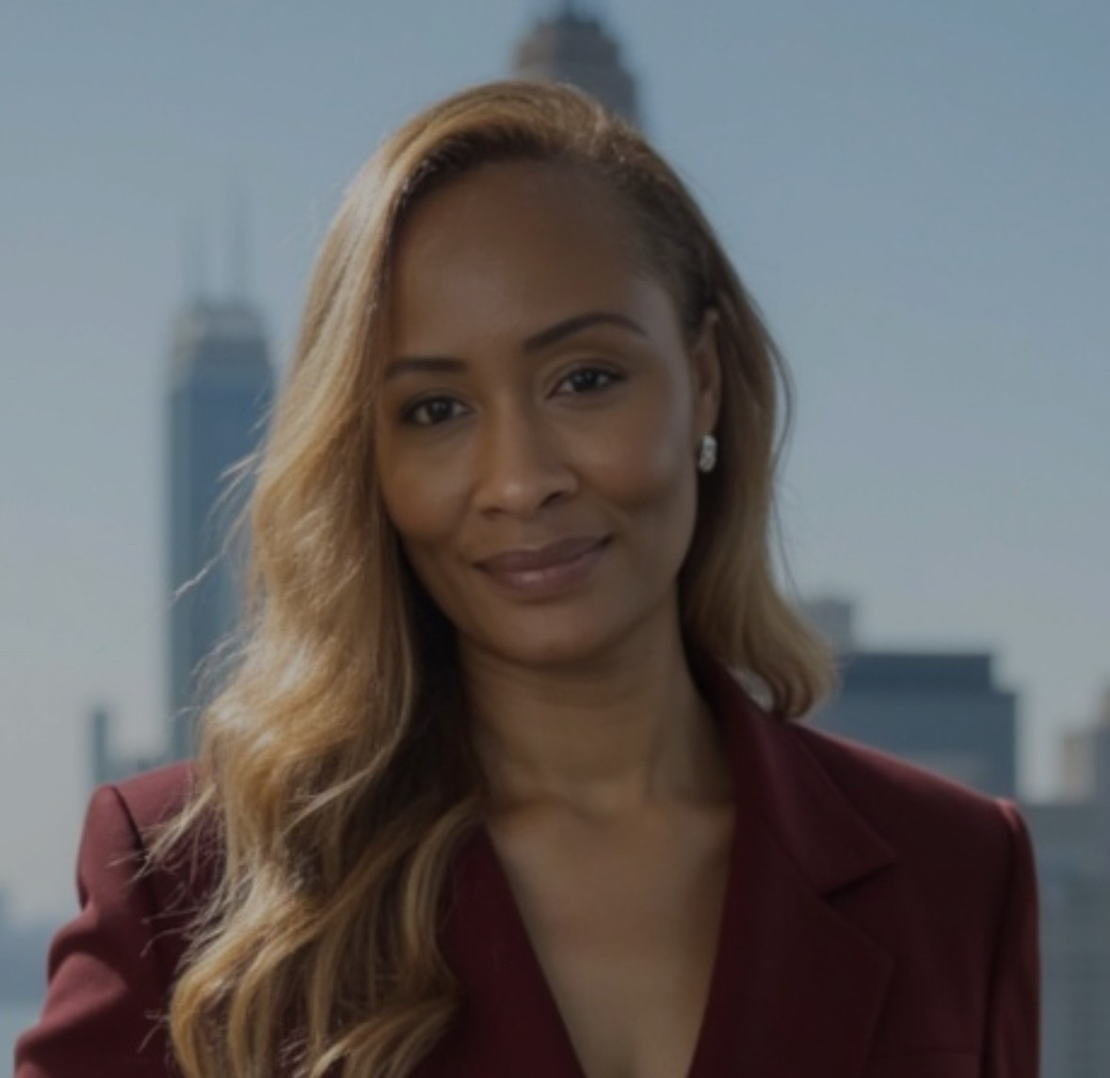
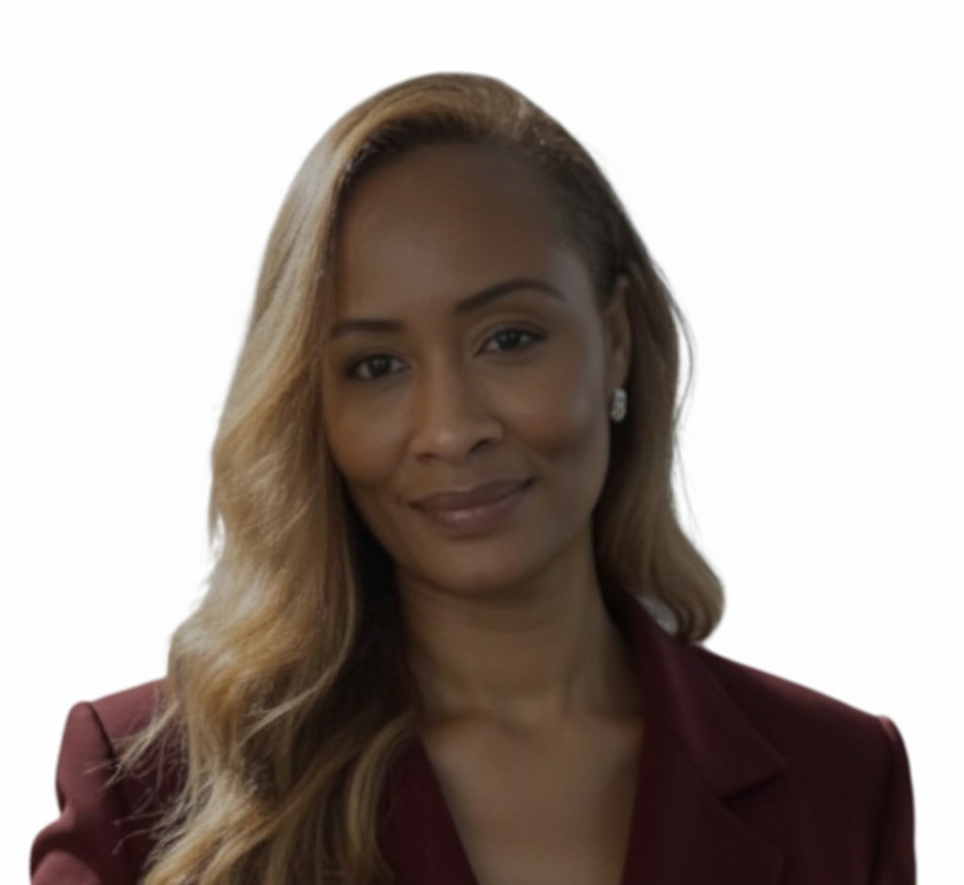
commit

diff --git a/agenda.js b/agenda.js
@@ -74,14 +74,14 @@ document.addEventListener('DOMContentLoaded', function() {
             title: "Keynote Speaker",
             organization: "Former Acting Deputy Secretary, Department of Homeland Security",
             bio: "<p>MaryAnn spent 15 years with the Federal Emergency Management Agency as the Regional Administrator for FEMA Region 3. In January 2025 she served as the Acting Deputy Secretary of the Department of Homeland Security. MaryAnn served in a variety of roles across FEMA including as the Senior Official Performing the Duties of Deputy Administrator (2025), Acting Deputy Administrator (2021), Acting Regional Administrator for Region 2 (2013), and Associate Administrator for Mission Support (2017).</p><p>In addition to her permanent position, she is a qualified Federal Coordinating Officer (Type 1) and led one of FEMA's five National Incident Management Assistance Teams. She deployed to several Presidentially declared disasters to support survivors and communities and has served in senior coordinating roles for the Department of Homeland Security and National Security Council. MaryAnn has also worked in emergency management in New York City and Philadelphia.</p><p>She has a BA from American University, a MPA from New York University, and has completed the three primary professional military education courses for General and Flag officers. MaryAnn received the DHS Secretary's Outstanding Service Medal in 2021, the Presidential Rank Award, Distinguished Rank in 2022, and the DHS Secretary's Meritorious Service Silver Medal in 2023.</p><p>MaryAnn lives in South Philly with her husband, son, and dog; is an avid runner; and aspires to one day have a cooking show like Ina Garten.</p>",
-            image: "https://github.com/MAwadalla04/DLS_website/blob/main/SRC/Headshots/MAT.jpg?raw=true"
+            image: "https://github.com/MAwadalla04/DLS_website/blob/main/SRC/Headshots/MaryAnn_Tierney_1.jpg?raw=true"
         },
         counsel: {
             name: "Sonja Orgias, Esq.", 
             title: "Chief Counsel",
             organization: "New York City Emergency Management",
             bio: "<p>Sonja Orgias has served as the Chief Counsel of New York City Emergency Management since August 2022. Ms. Orgias joined the agency in 2015 as Director of Legal Affairs and was appointed to Deputy Chief Counsel in 2021 to oversee the expansion of the agency's legal operations.</p><p>In her role, Ms. Orgias oversees the Office of the Chief Counsel comprised of three units: Legal Affairs, DAFN Legal, and Records Management. She also provides legal guidance to the Commissioner, First Deputy Commissioner, and other executives.</p><p>As a native Brooklynite who is also a City employee, Ms. Orgias is attuned to the unique way that this city runs; the way that its agencies run; and, the expectations of the public.</p><p>She has overseen emergency legal operations in response to numerous incidents in and outside of NYC, including drafting executive orders for extreme weather events, multiple city-to-city agreements with NYC and other municipalities, drafting emergency contracts valued at more than $600 million for the procurement of goods and services during the COVID-19 response, and licenses needed for City operations during other emergency crises.</p><p>In addition, Ms. Orgias was instrumental in starting, and serving in a leadership role of, the inaugural Equity and Diversity Council at New York Emergency Management. Her work has facilitated discussions and raised issues related to diversity, equity, and inclusion, which are necessary components in addressing community needs during emergencies.</p><p>Prior to joining New York City Emergency Management, Ms. Orgias served as an Administrative Law Judge with the New York City Environmental Control Board – OATH and Assistant Counsel with FDNY. She has a background in bankruptcy, immigration, administrative law, and alternative dispute resolution.</p><p>Ms. Orgias received her Juris Doctor Degree from Hofstra University School of Law and her Bachelor's Degree from Boston University and is a proud Stuyvesant High School alumna. She is a member of the New York State Bar Association Committee on Mass Disaster Response. Ms. Orgias is admitted to practice in the State of New York, the Eastern and Southern Districts of New York, and the Supreme Court of the United States.</p>",
-            image: "https://github.com/MAwadalla04/DLS_website/blob/main/SRC/Headshots/SO%20HS.png?raw=true",
+            image: "https://github.com/MAwadalla04/DLS_website/blob/main/SRC/Headshots/Sonja_Orgias.jpg?raw=true",
             usePhoto: true
         },
         closing: {
@@ -103,21 +103,21 @@ document.addEventListener('DOMContentLoaded', function() {
                     title: 'Deputy Chief Privacy Officer',
                     organization: 'NYC Office of Information Privacy',
                     bio: 'Aaron Friedman, Deputy Chief Privacy Officer, has been part of the NYC Office of Information Privacy since 2019. He counsels agencies and the Chief Privacy Officer on privacy issues and teaches privacy law at Fordham Law School. Before joining the Office of Information Privacy, Aaron was a senior counsel with the NYC Department of Social Services. Aaron is a graduate of the Benjamin N. Cardozo School of Law and CUNY Queens College.',
-                    image: 'https://github.com/MAwadalla04/DLS_website/blob/main/SRC/Headshots/Aaron%20Friedman%20headshot.jpg?raw=true'
+                    image: 'https://github.com/MAwadalla04/DLS_website/blob/main/SRC/Headshots/Aaron_Friedman_1.jpg?raw=true'
                 },
                 {
                     name: 'Ginger Armbruster',
                     title: 'Chief Privacy Officer',
                     organization: 'City of Seattle',
                     bio: 'As the City of Seattle\'s Chief Privacy Officer, Ginger Armbruster leads a team of privacy specialists in the execution of the City\'s Privacy Program, following a principles-based approach to the City\'s management of the public\'s personal and sensitive information. Prior to this role, she worked for Microsoft on an international team of privacy specialists to resolve issues associated with multi-million-dollar marketing initiatives. Before moving into privacy, she spent the first 20 years of her career working in sales and marketing for Fortune 500 companies such as IBM, Hewlett-Packard and Johnson & Johnson, as well as several medical technology startup companies.',
-                    image: 'SRC/Headshots/Ginger Armbruster headshot.jpg'
+                    image: 'https://github.com/MAwadalla04/DLS_website/blob/main/SRC/Headshots/Ginger_Armbruster_1.jpg?raw=true'
                 },
                 {
                     name: 'Jiahao Chen',
                     title: 'Director of AI/ML',
                     organization: 'New York City Office of Technology and Innovation',
                     bio: 'Jiahao Chen, PhD, is the Director of AI/ML at New York City\'s Office of Technology and Innovation. He oversees the implementation of NYC\'s AI Action Plan, the city\'s roadmap for responsible AI innovation. His work includes publishing guidance on the use of AI by city agencies, writing technical reference materials on classifying AI systems and AI risks, creating training materials for city staff on AI basics, developing the city\'s AI risk assessment process, and conducting public listening sessions on the city\'s use of AI. Jiahao holds a PhD in chemical physics from the University of Illinois at Urbana-Champaign. He was formerly research faculty at MIT working on scientific big data, a Senior Manager of Data Science, an Executive Director at JPMorgan AI Research, and the CTO and co-founder of Parity Technologies, a startup focused on algorithmic auditing solutions. Jiahao continues to be active in academic AI research, including serving as Ethics Chair for the Conference on Neural Information Processing Systems (NeurIPS), the world\'s largest academic AI conference. Jiahao was recently invited to speak at the American Bar Association\'s Annual Section of Labor & Employment Law Conference for his work on algorithmic auditing.',
-                    image: 'https://github.com/MAwadalla04/DLS_website/blob/main/SRC/Headshots/CHEN_HS.png?raw=true'
+                    image: 'https://github.com/MAwadalla04/DLS_website/blob/main/SRC/Headshots/Jiahao_Chen.jpg?raw=true'
                 },
                 {
                     name: 'Robert Wilson',
@@ -131,7 +131,7 @@ document.addEventListener('DOMContentLoaded', function() {
                     title: 'Data Privacy & Responsible AI Program Manager',
                     organization: 'City of Seattle',
                     bio: 'Sarah has spent the last six years with the City of Seattle growing and maturing the City\'s Data Privacy & Surveillance Ordinance Compliance Programs. Now, as the City\'s Data Privacy & Responsible AI Program Manager, she helps ensure City departments incorporate best practices into daily operations and public service offerings, in alignment with regulatory and policy frameworks. Sarah\'s interest in the intersection of data privacy, ethics, policy & emerging technology has driven the development of the City of Seattle\'s Responsible AI Program. The heart of the program focuses on transparent and responsible enablement of AI tools that will innovate and improve public services for Seattle residents.',
-                    image: 'SRC/Headshots/Sarah Carrier headshot.jpg'
+                    image: 'https://github.com/MAwadalla04/DLS_website/blob/main/SRC/Headshots/Sarah_Carrier_1.jpg?raw=true'
                 }
             ]
         },
@@ -143,21 +143,21 @@ document.addEventListener('DOMContentLoaded', function() {
                     title: 'Senior Counsel, Ethics & Compliance Division',
                     organization: 'New York City Law Department',
                     bio: 'Denisse Mira is a Senior Counsel in the Ethics and Compliance Division at the New York City Law Department. Prior to joining the Ethics and Compliance Division, Denisse was a Vice President of Global Financial Crimes Compliance for a financial institution.',
-                    image: 'https://github.com/MAwadalla04/DLS_website/blob/main/SRC/Headshots/Denisse_Mira_HS.png?raw=true'
+                    image: 'https://github.com/MAwadalla04/DLS_website/blob/main/SRC/Headshots/Denisse_Mira.jpg?raw=true'
                 },
                 {
                     name: 'Joshua Goldfein',
                     title: 'Staff Attorney, Homeless Rights Project',
                     organization: 'The Legal Aid Society',
                     bio: 'Joshua Goldfein is a Staff Attorney in The Legal Aid Society\'s Homeless Rights Project, where he represents homeless single adults and families in individual and group actions.',
-                    image: 'https://github.com/MAwadalla04/DLS_website/blob/main/SRC/Headshots/Joshua_Goldfein_HS.png?raw=true'
+                    image: 'https://github.com/MAwadalla04/DLS_website/blob/main/SRC/Headshots/Joshua_Goldfein.jpg?raw=true'
                 },
                 {
                     name: 'Michael Ross',
                     title: 'Principal, Law Offices of Michael S. Ross',
                     organization: 'Adjunct Professor, Cardozo & Brooklyn Law Schools',
                     bio: 'Michael S. Ross is the principal of the Law Offices of Michael S. Ross, where he concentrates his practice in attorney ethics and professional responsibility matters.',
-                    image: 'https://github.com/MAwadalla04/DLS_website/blob/main/SRC/Headshots/Ross%20headshot.jpg?raw=true'
+                    image: 'https://github.com/MAwadalla04/DLS_website/blob/main/SRC/Headshots/Michael_Ross_1.jpg?raw=true'
                 },
                 {
                     name: 'Traci Wheelwright',
@@ -190,7 +190,7 @@ document.addEventListener('DOMContentLoaded', function() {
                     title: 'Senior Agency Counsel and FOIL Officer',
                     organization: 'NYC Emergency Management',
                     bio: 'Rob DeVoogd is Senior Agency Counsel and FOIL officer at New York City Emergency Management. He has been with the agency for 8 years.',
-                    image: 'https://github.com/MAwadalla04/DLS_website/blob/main/SRC/Headshots/Rob%20DeVoogd%20Headshot.jpg?raw=true'
+                    image: 'https://github.com/MAwadalla04/DLS_website/blob/main/SRC/Headshots/Rob_DeVoogd_1.jpg?raw=true'
                 }
             ]
         },
@@ -202,49 +202,49 @@ document.addEventListener('DOMContentLoaded', function() {
                     title: 'Senior Counsel',
                     organization: 'NYC Office of Emergency Management',
                     bio: 'Dennis Boyd grew up in New York City and attended Dartmouth College and Boston University School of Law. He works in the Office of Chief Counsel of New York City\'s Department of Emergency Management (NYCEM), where he oversees the Disability and Access and Functional Needs program. This entails a focus on agency compliance with human rights laws for people who tend to be most adversely affected during large scale emergencies, including people with disabilities, the elderly, children, non-English speakers, the unhoused and others. He has thirty-eight years\' experience handling trials and appeals, conducting trainings, lobbying and advocating for low-income New Yorkers, with the last thirty of those years focused primarily on the rights of people with disabilities. Before joining the City, he was with a local disability Protection and Advocacy law firm, trying cases and developing policy around de-institutionalization, access to housing, health care and public accommodations and on the implementation of the federal ADA, the Help America Vote Act, and on NYC Building Code revisions. He has also worked with individuals seeking accommodations on college and graduate school admission tests and on professional licensing exams, as well as in the areas of housing discrimination, elder law, social security benefits and estate planning.',
-                    image: 'https://github.com/MAwadalla04/DLS_website/blob/main/SRC/Headshots/Dennis_Boyd\'s_HS.jpg?raw=true'
+                    image: 'https://github.com/MAwadalla04/DLS_website/blob/main/SRC/Headshots/Dennis_Boyd\'s_1.jpg?raw=true'
                 },
                 {
                     name: 'Dennis Debbaudt',
                     title: 'Autism Advocate',
                     organization: 'Autism Advocate',
                     bio: 'Expert in addressing the needs of individuals with invisible disabilities in emergency planning and disaster response.',
-                    image: 'https://github.com/MAwadalla04/DLS_website/blob/main/SRC/Headshots/Debbaudt%20Headshot.jpg?raw=true'
+                    image: 'https://github.com/MAwadalla04/DLS_website/blob/main/SRC/Headshots/Dennis_Debbaudt_1.jpg?raw=true'
                 },
                 {
                     name: 'Howard Rosenblum',
                     title: 'Deaf Rights Attorney and Advocate',
                     organization: 'Founder and CEO, Deaf Advocacy',
                     bio: 'Howard Rosenblum is the founder and Chair of Deaf Equality, which he established to achieve true equality for all Deaf, Hard of Hearing, DeafBlind, DeafDisabled, and Late Deafened people in the USA and worldwide. The goal of this effort is to emphasize system change through litigation, policy and regulatory changes, and consulting. Licensed in Illinois as a lawyer for 32 years and adept as an computer engineer for 36 years, Howard has extensive experience in strategizing and directing successful precedential cases such as NAD v. Netflix, NAD v. Harvard, NAD v. MIT, Campbell v. U.S. Department of Agriculture, Perez v. Sturgis Public Schools, and NAD v. Donald Trump. In addition, he has guided significant policy changes including convincing the US Department of Transportation to provide exemptions which led to over 1,500 Deaf individuals to obtain Commercial Driver\'s Licenses (CDLs) and drive trucks as well as getting the Federal Communications Commission to require texting and support the provision of an ASL option for the 988 suicide hotline. Howard has a B.S. in Computer Engineering from the University of Arizona, and a J.D. from the Illinois Institute of Technology/Chicago-Kent College of Law. He also serves as the legal advisor to the World Federation of the Deaf (WFD).',
-                    image: 'SRC/Headshots/Howard Rosenblum headshot.jpg'
+                    image: 'https://github.com/MAwadalla04/DLS_website/blob/main/SRC/Headshots/Howard_Rosenblum.jpg?raw=true'
                 },
                 {
                     name: 'Jo Anne Simon',
                     title: 'New York State Assemblymember',
                     organization: '52nd District',
                     bio: 'New York Assemblymember Jo Anne Simon has been fighting for the inclusion of people with disabilities her entire career. Through her Brooklyn, NY based law firm she has represented people with disabilities across the country. A graduate of Fordham University School of Law, Ms. Simon is known for her expertise on the Americans with Disabilities Act (ADA), particularly as it relates to higher education, high stakes testing and professional licensing bodies. She acted as lead counsel for the successful plaintiff in the seminal case of Bartlett v. New York State Board of Law Examiners. Ms. Simon was also an adjunct Associate Professor at Fordham Law School for nearly 20 years and served as staff attorney at Hofstra Law School\'s Disabilities Law Clinic from 1992-1996. Ms. Simon testified before the U.S. Senate in support of the ADA Amendments Act in 2008. She was instrumental in securing passage of California\'s AB-2122, advising the Assembly and testifying before the Senate in support of the bill to ban "flagging" the scores of test takers who received disability accommodations on the LSAT. Her work was also instrumental in the U.S. Department of Justice\'s decision to bring pattern and practice claims against the Law School Admission Council in DFEH, et al v. LSAC. Disability rights advocacy precedes her career in the law. Ms. Simon holds an MA in the Education of the Deaf from Gallaudet University and a BA Speech pathology from Iona College. She has worked as a teacher of deaf and deaf-blind students, as a postsecondary disability services provider and as a certified sign language interpreter for 20 years. She is a founding member of the Association on Higher Education And Disability (AHEAD). She regularly advises student with disabilities, their parents and school administrators and regularly associates with colleagues around the country in pursuing disability rights matters. Long active in civic affairs, in 2014 Ms. Simon was elected to the N.Y.S. Assembly for the 52nd District where she has led on issues such as the rights of women, children, and the elderly, the reduction of gun violence, environmental justice and resiliency and the rights of individuals with disabilities. She created and has organized Dyslexia Awareness Days at the New York State Capital for 10 years, passed a landscape shifting bill protecting rights of students with dyslexia and related learning disabilities and serves on the Steering Committee of the State Action Plan on Literacy. She has worked to increase the number of women in politics and government. She chairs the Assembly\'s Committee on Mental Health.',
-                    image: 'https://github.com/MAwadalla04/DLS_website/blob/main/SRC/Headshots/JAS_HS.jpg?raw=true'
+                    image: 'https://github.com/MAwadalla04/DLS_website/blob/main/SRC/Headshots/Jo_Simon.jpg?raw=true'
                 },
                 {
                     name: 'Kristine Hoffman',
                     title: 'Deputy Counsel',
                     organization: 'NYS Division of Homeland Security and Emergency Services',
                     bio: 'Kristine Hoffman is a Deputy Counsel for the NYS Division of Homeland Security and Emergency Services with 23 years of experience as an emergency management attorney. She has extensive expertise in law and policy across preparedness, response, recovery, and hazard mitigation portfolios. During her career as state legal counsel, she has advised and provided guidance to the Executive Chamber, state agencies, municipalities, and emergency management partners. During her tenure at DHSES she has authored portions of Executive Law Article 2-B, including the Intrastate Mutual Aid Program legislation, has trained county executives statewide, and co-authored more 200 State Disaster Emergency Executive Orders during major disasters. She has assisted in securing more than 30 Presidential major disaster declarations, developed FEMA policy interpretations benefiting New York, and assisted in the advancement of multimillion-dollar resilience projects. Prior to joining DHSES, Ms. Hoffman worked as attorney for the NYS Department of Health\'s Office of Health Emergency Preparedness, where she helped craft isolation and quarantine protocols and first-in-the-nation Alternate Care Site guidelines. She is a graduate of Siena College and Albany Law School.',
-                    image: 'https://github.com/MAwadalla04/DLS_website/blob/main/SRC/Headshots/Hoffman_HS.jpeg?raw=true'
+                    image: 'https://github.com/MAwadalla04/DLS_website/blob/main/SRC/Headshots/Kristine_Hoffman.jpg?raw=true'
                 },
                 {
                     name: 'Saiena Shafiezadeh',
                     title: 'Attorney, Office of Chief Counsel',
                     organization: 'NYC Office of Emergency Management',
                     bio: 'Expert in addressing the needs of individuals with invisible disabilities in emergency planning and disaster response.',
-                    image: 'https://github.com/MAwadalla04/DLS_website/blob/main/SRC/Headshots/Shafiezadeh%20Headshot.jpg?raw=true'
+                    image: 'https://github.com/MAwadalla04/DLS_website/blob/main/SRC/Headshots/Saiena_Shafiezadeh_1.jpg?raw=true'
                 },
                 {
                     name: 'Lisa Bothwell',
                     title: 'Federal Policy Professional',
                     organization: 'State Bar of Texas Licensed Attorney',
                     bio: 'Seasoned federal policy professional with over a decade of federal legal analysis in the areas of disability rights, civil rights, technology, rights of older adults, emergency management, federal funding, and healthcare laws and policies. Experienced in regulatory drafting, legal research and writing, and summarizing and responding to public comments on notices of proposed rulemaking. Deployed to more than 15 major disasters as a federal employee–including Hurricanes Harvey, Irma, and Maria—managing up to 39 federal staff and contractors. State Bar of Texas licensed attorney. President of the Deaf and Hard of Hearing Bar Association.',
-                    image: 'SRC/Headshots/Lisa Bothwell headshot.jpg'
+                    image: 'https://github.com/MAwadalla04/DLS_website/blob/main/SRC/Headshots/Lisa_Bothwell_1.jpg?raw=true'
                 }
             ]
         }

diff --git a/venue.html b/venue.html
@@ -89,14 +89,31 @@
                         </div>
                         
                         <h4>Accommodations</h4>
-                        <div class="hotel-info">
-                            <h5>Hampton Inn Brooklyn Downtown</h5>
-                            <p class="hotel-address">125 Flatbush Ave Extension, Brooklyn NY 11201</p>
-                            <p class="hotel-contact">
-                                <strong>Phone:</strong> 718.875.8800<br>
-                                <strong>Fax:</strong> 718.875.4400<br>
-                                <strong>Website:</strong> <a href="https://brooklyndowntown.hamptoninn.com" target="_blank" rel="noopener noreferrer">brooklyndowntown.hamptoninn.com</a>
-                            </p>
+                        <div class="hotels-container">
+                            <div class="hotel-info">
+                                <h5>Hampton Inn Brooklyn/Downtown</h5>
+                                <p class="hotel-address">125 Flatbush Ave, Brooklyn, NY 11201</p>
+                                <p class="hotel-contact">
+                                    <strong>Phone:</strong> 718.875.8800<br>
+                                    <strong>Fax:</strong> 718.875.4400<br>
+                                    <strong>Website:</strong> <a href="https://brooklyndowntown.hamptoninn.com" target="_blank" rel="noopener noreferrer">brooklyndowntown.hamptoninn.com</a>
+                                </p>
+                                <div class="hotel-booking">
+                                    <a href="https://www.hilton.com/en/attend-my-event/nycbohx-91i-56cd82e6-5310-4304-835b-5afea1ef549f/" target="_blank" rel="noopener noreferrer" class="booking-btn">Book Hampton Inn</a>
+                                </div>
+                            </div>
+                            
+                            <div class="hotel-info">
+                                <h5>New York Marriott at the Brooklyn Bridge</h5>
+                                <p class="hotel-address">333 Adams Street, Brooklyn, New York, USA, 11201</p>
+                                <p class="hotel-contact">
+                                    <strong>Phone:</strong> +1 718-246-7000<br>
+                                    <strong>Website:</strong> <a href="https://www.marriott.com/en-us/hotels/nycbk-new-york-marriott-at-the-brooklyn-bridge/overview/?scid=ba372e19-3116-406f-8c8c-cd1679a20d2d" target="_blank" rel="noopener noreferrer">marriott.com</a>
+                                </p>
+                                <div class="hotel-booking">
+                                    <a href="https://book.passkey.com/event/51103702/owner/13490/home?utm_campaign=298379295" target="_blank" rel="noopener noreferrer" class="booking-btn">Book Marriott</a>
+                                </div>
+                            </div>
                         </div>
                         
                         <h4>Accessibility</h4>

diff --git a/venue.css b/venue.css
@@ -165,8 +165,8 @@ body {
 
 .venue-content {
     display: grid;
-    grid-template-columns: 1fr 1fr;
-    gap: 4rem;
+    grid-template-columns: 2fr 1fr;
+    gap: 3rem;
     align-items: start;
 }
 
@@ -478,6 +478,102 @@ body {
 /* Smooth Scrolling */
 html {
     scroll-behavior: auto;
+}
+
+/* Hotel Booking Styles */
+.hotels-container {
+    display: grid;
+    grid-template-columns: 1fr 1fr;
+    gap: 2.5rem;
+    margin-top: 1.5rem;
+}
+
+.hotel-info {
+    background: #f8f9fa;
+    border: 1px solid #e9ecef;
+    border-radius: 12px;
+    padding: 2rem;
+    transition: all 0.3s ease;
+    height: 100%;
+    display: flex;
+    flex-direction: column;
+}
+
+.hotel-info:hover {
+    box-shadow: 0 4px 12px rgba(0,0,0,0.1);
+    border-color: #005A9C;
+}
+
+.hotel-info h5 {
+    color: #005A9C;
+    font-size: 1.3rem;
+    margin-bottom: 0.8rem;
+    font-weight: 700;
+}
+
+.hotel-address {
+    color: #666;
+    font-weight: 600;
+    margin-bottom: 0.8rem;
+}
+
+.hotel-contact {
+    margin-bottom: 1.2rem;
+    line-height: 1.6;
+}
+
+.hotel-contact strong {
+    color: #333;
+}
+
+.hotel-booking {
+    text-align: center;
+    margin-top: auto;
+    padding-top: 1.5rem;
+}
+
+.booking-btn {
+    background: #005A9C;
+    color: white !important;
+    padding: 0.8rem 1.5rem;
+    border-radius: 6px;
+    text-decoration: none;
+    font-weight: 600;
+    display: inline-block;
+    transition: all 0.3s ease;
+    box-shadow: 0 2px 8px rgba(0, 90, 156, 0.3);
+}
+
+.booking-btn:hover {
+    background: #004080;
+    transform: translateY(-2px);
+    box-shadow: 0 4px 12px rgba(0, 90, 156, 0.4);
+    color: white !important;
+}
+
+.booking-btn:visited {
+    color: white !important;
+}
+
+.booking-btn:active {
+    color: white !important;
+}
+
+/* Hotel Booking Responsive */
+@media (max-width: 768px) {
+    .hotels-container {
+        grid-template-columns: 1fr;
+        gap: 1.5rem;
+    }
+
+    .hotel-info {
+        padding: 1.2rem;
+    }
+
+    .booking-btn {
+        padding: 0.7rem 1.2rem;
+        font-size: 0.9rem;
+    }
 }
 
 

diff --git a/index.js b/index.js
@@ -11,46 +11,6 @@ document.addEventListener('DOMContentLoaded', function() {
         }
     });
 
-    // Calendar functionality - simple .ics file download
-    const addToCalendarLink = document.getElementById('add-to-calendar');
-    
-    if (addToCalendarLink) {
-        addToCalendarLink.addEventListener('click', function(e) {
-            e.preventDefault();
-            createCalendarFile();
-        });
-    }
-
-    function createCalendarFile() {
-        // Event details
-        const eventTitle = 'Disaster Law Symposium';
-        const eventDescription = 'Law in Crisis: Building Capacity, Compliance, and Community in Emergency Management';
-        const eventLocation = 'Brooklyn Law School';
-        const eventStartDate = '20251105T090000'; // Format: YYYYMMDDTHHMMSS
-        const eventEndDate = '20251105T170000';   // Assuming it's an all-day event
-        
-        // Create an iCal file that works with any calendar app
-        const icsContent = 'BEGIN:VCALENDAR\n' +
-            'VERSION:2.0\n' +
-            'BEGIN:VEVENT\n' +
-            'URL:' + window.location.href + '\n' +
-            'DTSTART:' + eventStartDate + '\n' +
-            'DTEND:' + eventEndDate + '\n' +
-            'SUMMARY:' + eventTitle + '\n' +
-            'DESCRIPTION:' + eventDescription + '\n' +
-            'LOCATION:' + eventLocation + '\n' +
-            'END:VEVENT\n' +
-            'END:VCALENDAR';
-        
-        // Create and download the file
-        const blob = new Blob([icsContent], { type: 'text/calendar;charset=utf-8' });
-        const link = document.createElement('a');
-        link.href = URL.createObjectURL(blob);
-        link.download = 'disaster_law_symposium.ics';
-        document.body.appendChild(link);
-        link.click();
-        document.body.removeChild(link);
-    }
 
     // Mobile menu toggle
     const hamburger = document.querySelector('.hamburger');

diff --git a/index.html b/index.html
@@ -48,12 +48,11 @@
                     <div class="theme-accent-line"></div>
                 </div>
                 <div class="hero-details">
-                    <div class="detail-item calendar-item">
-                        <i class="fas fa-calendar-alt"></i>
-                        <a href="#" id="add-to-calendar" class="calendar-link">Wednesday, November 5th, 2025</a>
+                    <div class="detail-item">
+                        <span style="color: white; font-weight: bold;">Wednesday, November 5th, 2025</span>
                     </div>
                     <div class="detail-item">
-                        <a href="https://maps.app.goo.gl/atELWYvjC95wmGvf9" target="_blank" rel="noopener noreferrer" style="color: white; text-decoration: none;">Brooklyn Law School</a>
+                        <span style="color: white; font-weight: bold;">Brooklyn Law School</span>
                     </div>
                 </div>
                 <div class="hero-register">

diff --git a/sponsors.html b/sponsors.html
@@ -43,7 +43,7 @@
                 <div class="sponsors-grid supporting-sponsors">
                     <div class="sponsor-card supporting-sponsor">
                         <div class="sponsor-logo">
-                            <img src="SRC/Headshots/thumbnail_image0.jpg" alt="Metropolitan Black Bar Association Logo">
+                            <img src="https://mbbanyc.org/wp-content/uploads/logo-retina-mbba.png" alt="Metropolitan Black Bar Association Logo">
                         </div>
                         <div class="sponsor-info">
                             <h4>Metropolitan Black Bar Association</h4>
